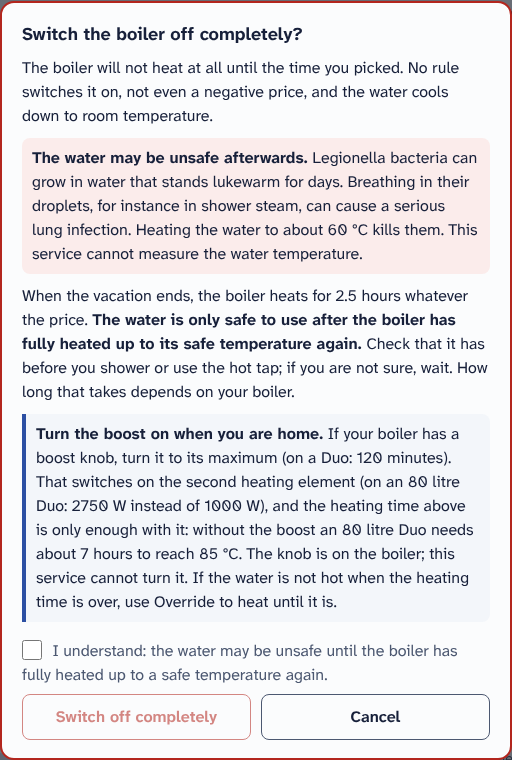
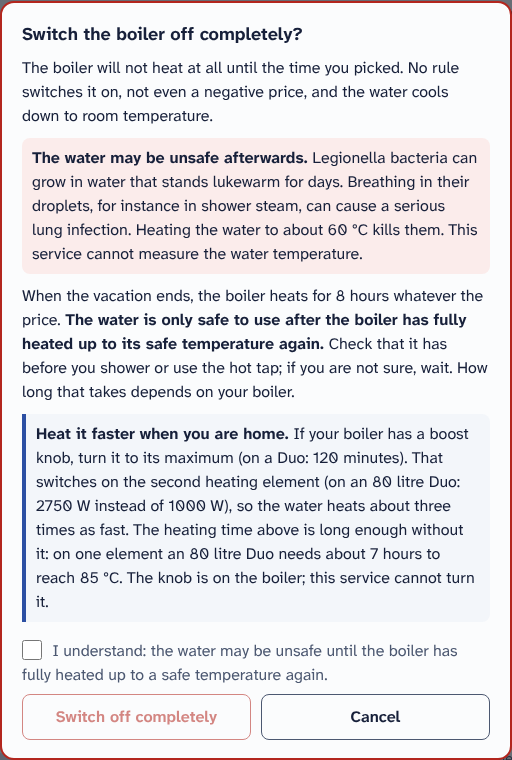
feat: heat for 8 hours after a vacation, enough on the Duo's one element
The Shelly measures the 80 litre Duo at 1.0 to 1.1 kW whenever it heats, and
two weeks of readings never went above that: the boost knob that adds the
second element (2750 W) is on the boiler, which this service cannot turn. On
one element the manual gives 7 hours to heat 75 K, and 80 litres from 12 to
85 degrees take 6.8 hours, plus the manual's 10 minutes at that temperature.
So the heat-up is 8 hours, which matches the Legionella guard's own 8-hour
limit, and the popup's boost tip now says the time is long enough without it.

The README and its screenshots are updated, and a test keeps the heat-up above
what one element needs.

Claude-Session: https://claude.ai/code/session_016Qm4f92U5yX2oHjW87uW27

Changed region(s): [[0.0625, 0.5447, 0.9375, 0.8171], [0.0312, 0.3632, 0.9375, 0.4842]]

diff --git a/shelly_control/templates/index.html b/shelly_control/templates/index.html
@@ -24,7 +24,7 @@
 
 {#- The boost knob is on the boiler: the service cannot turn it, so it says so. -#}
 {%- macro boost_tip() -%}
-<strong>Turn the boost on when you are home.</strong> If your boiler has a boost knob, turn it to its maximum (on a Duo: 120 minutes). That switches on the second heating element (on an 80 litre Duo: 2750 W instead of 1000 W), and the heating time above is only enough with it: without the boost an 80 litre Duo needs about 7 hours to reach 85&nbsp;°C. The knob is on the boiler; this service cannot turn it. If the water is not hot when the heating time is over, use Override to heat until it is.
+<strong>Heat it faster when you are home.</strong> If your boiler has a boost knob, turn it to its maximum (on a Duo: 120 minutes). That switches on the second heating element (on an 80 litre Duo: 2750 W instead of 1000 W), so the water heats about three times as fast. The heating time above is long enough without it: on one element an 80 litre Duo needs about 7 hours to reach 85&nbsp;°C. The knob is on the boiler; this service cannot turn it.
 {%- endmacro -%}
 
 {%- macro quarter_select(name, label, selected) -%}

diff --git a/tests/test_controller.py b/tests/test_controller.py
@@ -315,7 +315,7 @@ def test_when_a_vacation_ends_the_boiler_heats_for_two_hours_whatever_the_price(
     assert snap.override.until == snap.override.set_at + HEAT_UP
     assert fake_shelly.output is True
     assert any(
-        e.get("summary", "").startswith("Vacation ended at 16:30; heating until 19:00 whatever")
+        e.get("summary", "").startswith("Vacation ended at 16:30; heating until Wed 00:30 whatever")
         for e in snap.entries
     )
     # 17:00 to 18:45 cost 30 ct, over the 25 ct switch-off line: the rules would switch off.
@@ -324,17 +324,17 @@ def test_when_a_vacation_ends_the_boiler_heats_for_two_hours_whatever_the_price(
         controller.tick()
         assert fake_shelly.output is True
         assert controller.snapshot().last_entry["rule"] == "override"
-    at_time(clock, 18, 45)
+    # Still heating late in the evening, long after the dear quarters.
+    at_time(clock, 23, 45)
     controller.tick()
     assert controller.snapshot().last_entry["rule"] == "override"
     assert fake_shelly.output is True
-    # Two and a half hours after the end it is over, and the rules decide again.
-    at_time(clock, 19, 0, 5)
+    # Eight hours after the end it is over, and the rules decide again.
+    clock.set(ts(NORMAL_DAY, 0, 30, 5) + 86400)
     controller.tick()
     snap = controller.snapshot()
     assert snap.override is None
-    assert snap.last_entry["rule"] == "above_off"
-    assert fake_shelly.output is False
+    assert snap.last_entry["rule"] != "override"
 
 
 def test_ending_a_vacation_early_starts_the_heat_up_at_once(make_controller, fake_shelly, clock):

diff --git a/shelly_control/rules.py b/shelly_control/rules.py
@@ -50,13 +50,14 @@ OVERRIDE_MAX = dt.timedelta(hours=24)
 VACATION_MAX = dt.timedelta(days=60)
 # When a vacation ends, the boiler heats this long whatever the price, so the
 # water reaches a safe temperature again. Nothing shortens it. Sized for the
-# 80 litre Itho Daalderop Duo (manual 01-06120-001) with its boost knob on,
-# which adds the second element for 2750 W: the manual gives 2:30 hours to heat
-# 75 degrees, and 80 kg x 4.186 kJ/(kg K) x 48 K = 4.5 kWh to 60 degrees takes
-# 1.6 hours. Without the boost the boiler heats at 1000 W and needs about 7
-# hours; the knob is on the boiler, which this service cannot turn, so the page
-# tells the owner to. Once the water is hot the thermostat stops the heating.
-HEAT_UP = dt.timedelta(hours=2.5)
+# 80 litre Itho Daalderop Duo (manual 01-06120-001) on its 1000 W element alone,
+# which is how the Shelly measures it: the manual gives 7 hours to heat 75
+# degrees, and 80 kg x 4.186 kJ/(kg K) x 73 K = 6.8 kWh takes 6.8 hours from 12
+# to the thermostat's top position of 85, plus the manual's 10 minutes at that
+# temperature. The boost knob adds the second element (2750 W, about 3 times as
+# fast), but it is on the boiler, which this service cannot turn. Once the water
+# is hot the thermostat stops the heating, so spare hours cost nothing.
+HEAT_UP = dt.timedelta(hours=8)
 # The Legionella guard: the water must reach the thermostat's temperature at
 # least this often. The boiler used to heat only on the night tariff, which the
 # grid's TF signal switched on from 23:00 to 07:00 on weekdays: off 16 hours, but

diff --git a/tests/test_web.py b/tests/test_web.py
@@ -482,7 +482,7 @@ def test_a_vacation_is_not_started_without_the_confirmation(setup):
     assert 'id="vacation-dialog"' in dialog.split(">")[0] + ">" and " open" in dialog.split(">")[0]
     assert "Legionella" in dialog
     assert "only safe to use after the boiler has fully heated up" in dialog
-    assert "2.5 hours whatever the price" in dialog
+    assert "8 hours whatever the price" in dialog
     assert "boost knob" in dialog
     assert "cannot turn it" in dialog
     assert '<option value="2026-11-03" selected>' in body
@@ -575,10 +575,10 @@ def test_ending_a_vacation_starts_the_heat_up_that_nothing_can_change(setup, fak
     assert heat_up.until == dt.datetime.fromtimestamp(clock.now, dt.UTC) + HEAT_UP
     body = client.get("/?notice=vacation_ended", headers=HEADERS).get_data(as_text=True)
     vacation = body[body.index('id="vacation"') :]
-    assert "The boiler heats for 2.5 hours whatever the price" in vacation
+    assert "The boiler heats for 8 hours whatever the price" in vacation
     assert "turn it to its maximum" in vacation
-    assert "only enough with it" in vacation
-    assert "Heating after the vacation until 14:30, whatever the price." in vacation
+    assert "long enough without it" in vacation
+    assert "Heating after the vacation until 20:00, whatever the price." in vacation
     assert "End vacation now" not in vacation
     # And now it cannot be ended or replaced, by the page.
     resp = client.post("/override/clear", data={"csrf": TOKEN}, headers=HEADERS)

diff --git a/tests/test_rules.py b/tests/test_rules.py
@@ -311,11 +311,12 @@ def test_an_override_still_lasts_at_most_a_day():
         parse_until("2026-10-29T12:00", now, TZ)
 
 
-def test_the_heat_up_matches_the_duo_with_its_boost_on():
-    # The manual: 2:30 hours to heat 75 K on both elements (2750 W). 80 litres from 12 to
-    # 60 degrees is 4.5 kWh, 1.6 hours.
-    assert 1.5 < 80 * 4.186 * (60 - 12) / 3600 / 2.75 < 1.7
-    assert HEAT_UP >= dt.timedelta(hours=2, minutes=30)
+def test_the_heat_up_covers_heating_the_duo_to_its_top_position_on_one_element():
+    # 80 litres from 12 to 85 degrees on the 1000 W element the Shelly measures (the manual says
+    # 7 hours for 75 K), then the manual's 10 minutes at that temperature.
+    hours_needed = 80 * 4.186 * (85 - 12) / 3600 / 1.0 + 10 / 60
+    assert 6.8 < hours_needed < 7.1
+    assert HEAT_UP.total_seconds() / 3600 >= hours_needed + 0.5
 
 
 # -- summer time --------------------------------------------------------------------------------

diff --git a/tests/test_view.py b/tests/test_view.py
@@ -82,7 +82,7 @@ def test_a_vacation_and_its_heat_up_are_explained(snapshot):
         view.override_text
         == "Vacation: the boiler is switched off completely until Tue 3 Nov 18:00."
     )
-    assert "Then the boiler heats for 2.5 hours whatever the price" in view.override_after
+    assert "Then the boiler heats for 8 hours whatever the price" in view.override_after
     assert view.hero.why.startswith(
         "Vacation: the boiler is switched off completely until Tue 3 Nov"
     )

diff --git a/README.md b/README.md
@@ -93,7 +93,7 @@ decides:
 
 | # | Rule | Default | The live script (`boiler2.sh`) |
 |---|---|---|---|
-| 1 | **Override**: on or off until a time you pick, then back to the rules. A **vacation** is an override that keeps the boiler off for up to 60 days, and ends with a 2.5-hour heat-up (below) | none | (none) |
+| 1 | **Override**: on or off until a time you pick, then back to the rules. A **vacation** is an override that keeps the boiler off for up to 60 days, and ends with an 8-hour heat-up (below) | none | (none) |
 | 1a | **Legionella guard**: the water was not fully hot for too long, heat whatever the price until the thermostat stops (below) | 24 hours | (none: the night tariff did this) |
 | 2 | **No usable price**: no price for this quarter, or not all of today's prices | always | no current price: exits without acting |
 | 3 | **Negative prices**: below zero, heat | on | `price < 0 → on` |
@@ -155,7 +155,7 @@ that promise with any prices:
   the price, also without prices, until the thermostat stops. Then the rules
   decide again.
 - An override goes first, a **vacation** included: starting one, you confirm
-  that the water may be unsafe, and its 2.5-hour heat-up follows. A manual
+  that the water may be unsafe, and its 8-hour heat-up follows. A manual
   override lasts at most 24 hours.
 - In shadow mode the guard switches nothing, as the other rules.
 - If the boiler still draws power after 8 hours of the guard, the water counts
@@ -188,25 +188,27 @@ bacteria, so:
   server refuses the request without the tick (`"confirm": true` in the API),
   so no client skips it.
 - When the vacation ends, whether at its time or when you end it early, the
-  boiler is switched on and stays on for **at least 2.5 hours, whatever the
+  boiler is switched on and stays on for **at least 8 hours, whatever the
   price** (a negative price, a price over the switch-off line, shadow mode).
   Nothing shortens that heat-up: no rule, and no new override, vacation or
   "end override" from the page or the API (`409` there). If the service was
-  down when the vacation ended, the 2.5 hours count from when it notices. If
+  down when the vacation ended, the 8 hours count from when it notices. If
   the relay was switched in the last minute, the usual 60-second pause between
   switches comes first, and then it switches on by itself.
-- The 2.5 hours are sized for the 80 litre Itho Daalderop Duo (manual
+- The 8 hours are sized for the 80 litre Itho Daalderop Duo (manual
   [01-06120-001](https://ithodaalderop.compano.com/Data/Environments/000001/Attachment/Bijlage/A05_Warm%20water/A05_01_Boilers%20Groot/A05_01_01_Elektroboilers/B01_06_MTE/01-06120-001%20%20Handleiding%20Elektroboiler%20(nl)(2023).pdf))
-  **with its boost knob on**. The relay switches the whole boiler, but the Duo
-  heats with its 1000 W element alone, which is the 1.1 kW the Shelly shows; the
-  boost knob (up to 120 minutes) adds the second element, for 2750 W in all, and
-  this service cannot turn it. With the boost, the manual gives 2:30 hours to
-  heat 75 °C, and 80 litres to 60 °C take about 1.6 hours. Without it the same
-  boiler needs about 7 hours, so the page tells you to turn the boost on when
-  you are home, and to use Override if the water is not hot when the time is
-  over. Once the water is hot the thermostat stops the heating. Change `HEAT_UP`
-  in `rules.py` for another boiler.
-- After the 2.5 hours the rules decide again. The service cannot measure the
+  as the Shelly measures it. The relay switches the whole boiler, but the Duo
+  heats with its 1000 W element alone, which is the 1.1 kW the Shelly shows (the
+  two weeks of readings behind this never went above it); the boost knob (up to
+  120 minutes) adds the second element, for 2750 W in all, and this service
+  cannot turn it. On one element the manual gives 7 hours to heat 75 °C, and
+  80 litres from 12 to 85 °C take about 6.8 hours; the manual's own procedure
+  after a week without heating adds 10 minutes at that temperature. That is why
+  8 hours. The page tells you to turn the boost on when you are home, which makes
+  it about three times as fast. Once the water is hot the thermostat stops the
+  heating, so spare hours cost nothing. Change `HEAT_UP` in `rules.py` for
+  another boiler.
+- After the 8 hours the rules decide again. The service cannot measure the
   water temperature, so it cannot tell when the water is safe: it is, once the
   boiler has fully heated up to its safe temperature. The boiler's own
   thermostat decides what that is (position 3 is about 85 °C; anything under
@@ -280,7 +282,7 @@ the image.
 | `PUT /api/v1/settings` | Change some settings (names as `GET` returns them; `mode` is `shadow` or `live`, `average_window` is `day` or `day_and_next`). Add `"confirm_live": true` to go live. `422` with `errors` by field |
 | `POST /api/v1/override` | `{"action": "on" \| "off", "until": "18:00" or an ISO time}`, at most 24 hours. `409` while a vacation or its heat-up runs |
 | `POST /api/v1/vacation` | `{"until": an ISO date and time, "confirm": true}`: switch the boiler off completely, at most 60 days. Without `"confirm": true`, `422`. `409` while a vacation or its heat-up runs |
-| `DELETE /api/v1/override` | End the override or the vacation (which starts the 2.5-hour heat-up). `409` during the heat-up |
+| `DELETE /api/v1/override` | End the override or the vacation (which starts the 8-hour heat-up). `409` during the heat-up |
 | `GET /api/v1/decisions?limit=100` | The decision log, newest first |
 
 Changes need `Content-Type: application/json` and the token from
